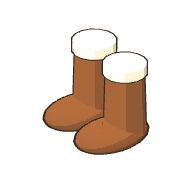
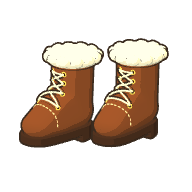
Ferme : nouvelles Bottes de cuir de Bouftou (bottines lacees, icone 3D)

Changed region(s): [[0.0938, 0.1562, 0.875, 0.8125], [0.4375, 0.125, 0.5312, 0.1562], [0.5312, 0.1562, 0.5938, 0.1875]]

diff --git a/site/ferme/js/09-modeles.js b/site/ferme/js/09-modeles.js
@@ -173,7 +173,7 @@ const draco = new T.DRACOLoader(); draco.setDecoderPath('https://cdn.jsdelivr.ne
 const chargerGlbUneFois = (url) => new Promise((ok, ko) => chargeur.load(url, (gl) => ok(gl.scene), undefined, ko));
 const chargerGlb = (url, essais = 3) => chargerGlbUneFois(url).catch((e) => (essais > 1 ? new Promise((r) => setTimeout(r, 800)).then(() => chargerGlb(url, essais - 1)) : Promise.reject(e))); /* (trois essais : un modele rate ne fait plus planter le jeu plus tard, 16/10/2026) */
 const MODELES = {};
-const VERSION_MODELES = '20261113b'; /* a changer a chaque nouvel export des modeles : sinon le navigateur garde les anciens en cache */
+const VERSION_MODELES = '20261113c'; /* a changer a chaque nouvel export des modeles : sinon le navigateur garde les anciens en cache */
 /* un modele tire d'une planche : on le recentre, on le remet droit, on l'ajuste a la taille voulue (pied au sol, centre en 0) */
 /* comme gabarit, mais a une echelle donnee et centre sur un point donne (non mis a l'echelle) : les 5 niveaux d'un batiment gardent la meme echelle,
    le niveau 1 a la taille d'avant et les suivants grandissent vraiment */

diff --git a/site/ferme/index.html b/site/ferme/index.html
@@ -110,7 +110,7 @@
 <script src="js/06-temps.js?v=c585c27e88"></script>
 <script src="js/07-actions.js?v=d0883c9918"></script>
 <script src="js/08-scene.js?v=f7a00486cb"></script>
-<script src="js/09-modeles.js?v=6e2dfcf8d9"></script>
+<script src="js/09-modeles.js?v=0d848cc393"></script>
 <script src="js/10-ciel.js?v=cccc304ae0"></script>
 <script src="js/11-ferme-3d.js?v=f0e3a2bb89"></script>
 <script src="js/12-perso.js?v=4e53c6089a"></script>
